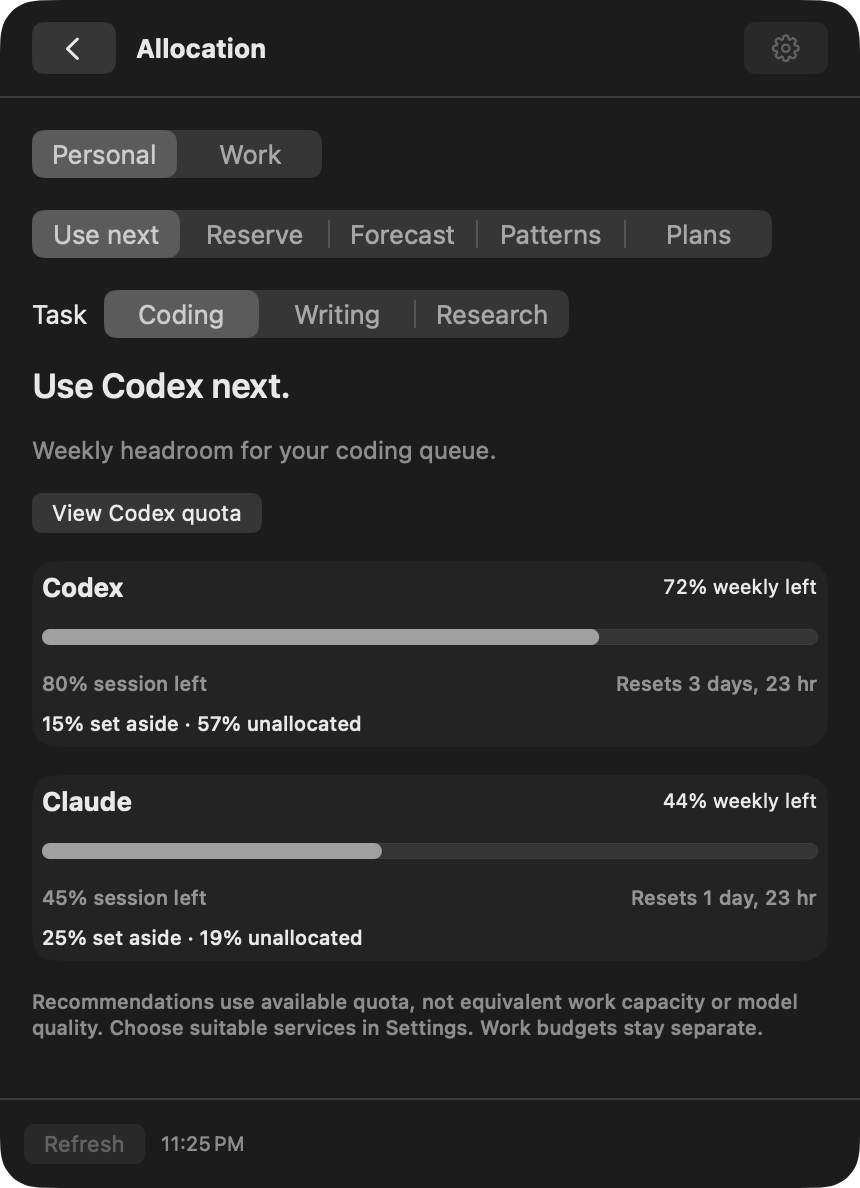
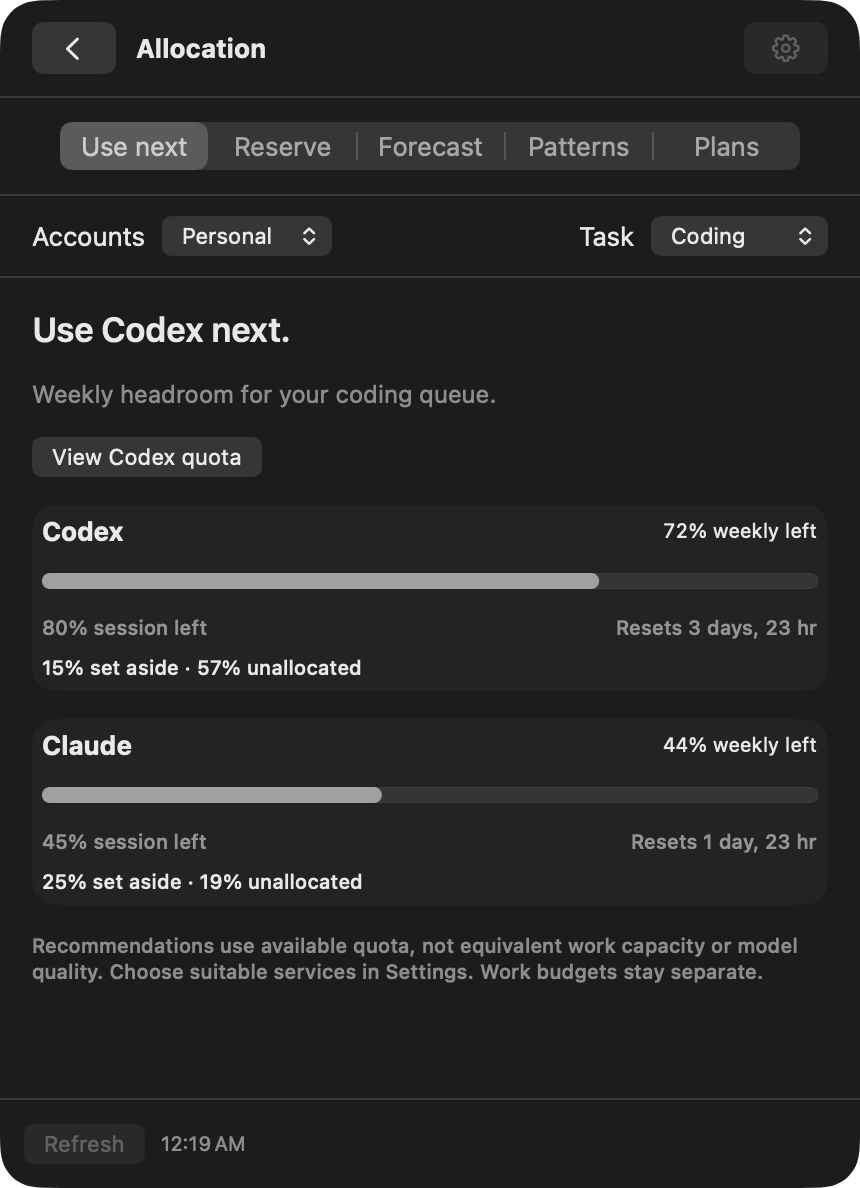
Update planner UI captures and notarized Build 14 download

diff --git a/index.html b/index.html
@@ -11,8 +11,8 @@
   <meta property="og:site_name" content="Bubble Tax">
   <meta property="og:locale" content="en_US">
   <meta property="og:url" content="https://bubble-tax.github.io/">
-  <meta property="og:image" content="https://bubble-tax.github.io/assets/bubble-tax-og.png?v=20261028">
-  <meta property="og:image:secure_url" content="https://bubble-tax.github.io/assets/bubble-tax-og.png?v=20261028">
+  <meta property="og:image" content="https://bubble-tax.github.io/assets/bubble-tax-og.png?v=20261029">
+  <meta property="og:image:secure_url" content="https://bubble-tax.github.io/assets/bubble-tax-og.png?v=20261029">
   <meta property="og:image:type" content="image/png">
   <meta property="og:image:width" content="1200">
   <meta property="og:image:height" content="630">
@@ -20,11 +20,11 @@
   <meta name="twitter:card" content="summary_large_image">
   <meta name="twitter:title" content="Bubble Tax — Know your limits. Plan your work.">
   <meta name="twitter:description" content="Compare five-hour and weekly quota. Then give your next task some room.">
-  <meta name="twitter:image" content="https://bubble-tax.github.io/assets/bubble-tax-og.png?v=20261028">
+  <meta name="twitter:image" content="https://bubble-tax.github.io/assets/bubble-tax-og.png?v=20261029">
   <meta name="twitter:image:alt" content="Bubble Tax: compare quota consumption and plan your AI work. A black-and-white comic mascot accompanies the headline.">
   <link rel="canonical" href="https://bubble-tax.github.io/">
   <title>Bubble Tax — Know your limits. Plan your work.</title>
-  <link rel="icon" href="assets/donationAngel.png?v=20261028" type="image/png">
+  <link rel="icon" href="assets/donationAngel.png?v=20261029" type="image/png">
   <script>
     (() => {
       let theme;
@@ -33,9 +33,9 @@
     })();
   </script>
   <link rel="stylesheet" href="styles.css?v=0cb568b79215">
-  <script src="config.js?v=349590f04ef7" defer></script>
+  <script src="config.js?v=7aec48963070" defer></script>
   <script src="analytics.js?v=3bac31c7a50d" defer></script>
-  <script src="app.js?v=bb21b4cd96c7" defer></script>
+  <script src="app.js?v=99b7ef75f5a2" defer></script>
 </head>
 <body>
   <a class="skip" href="#main">Skip to content</a>
@@ -75,7 +75,7 @@
           </button>
           <div class="mac-wallpaper" aria-hidden="true"></div>
           <div id="mac-popover" class="mac-popover">
-            <button class="image-button" data-image="assets/notch-claude.png?v=20261028" data-caption="Notch preview — native macOS app capture, sample data." aria-label="Enlarge the actual macOS overview screenshot"><img class="app-capture" data-light="assets/notch-claude.png?v=20261028" data-dark="assets/notch-claude-dark.png?v=20261028" src="assets/notch-claude.png?v=20261028" alt="Bubble Tax notch preview showing Claude weekly quota with sample data." width="860" height="1240" fetchpriority="high"></button>
+            <button class="image-button" data-image="assets/notch-claude.png?v=20261029" data-caption="Notch preview — native macOS app capture, sample data." aria-label="Enlarge the actual macOS overview screenshot"><img class="app-capture" data-light="assets/notch-claude.png?v=20261029" data-dark="assets/notch-claude-dark.png?v=20261029" src="assets/notch-claude.png?v=20261029" alt="Bubble Tax notch preview showing Claude weekly quota with sample data." width="860" height="1240" fetchpriority="high"></button>
           </div>
         </div>
         <figcaption><span id="preview-caption">Notch preview · native app capture · sample data.</span><span>Paid plans flip every 8 seconds. Click the quota to open or close.</span></figcaption>
@@ -104,14 +104,14 @@
           </div>
         </div>
         <figure class="tour-shot">
-          <button id="tour-image-button" class="image-button" data-image="assets/model-windows.png?v=20261028" data-caption="Window comparison — actual macOS app, sample data." aria-label="Enlarge the selected app screenshot"><img id="tour-image" class="app-capture" data-light="assets/model-windows.png?v=20261028" data-dark="assets/model-windows-dark.png?v=20261028" src="assets/model-windows.png?v=20261028" alt="Bubble Tax comparing five-hour Codex windows with weekly quota consumption, using sample data." width="860" height="1232"></button>
+          <button id="tour-image-button" class="image-button" data-image="assets/model-windows.png?v=20261029" data-caption="Window comparison — actual macOS app, sample data." aria-label="Enlarge the selected app screenshot"><img id="tour-image" class="app-capture" data-light="assets/model-windows.png?v=20261029" data-dark="assets/model-windows-dark.png?v=20261029" src="assets/model-windows.png?v=20261029" alt="Bubble Tax comparing five-hour Codex windows with weekly quota consumption, using sample data." width="860" height="1232"></button>
           <figcaption><span id="shot-label">Window comparison</span><span>Sample data · click for original</span></figcaption>
         </figure>
       </div>
       <details class="data-note"><summary>About the data</summary><p>Claude and Codex comparisons use paired five-hour and weekly quota readings. Model names come from Claude Code and Codex logs stored on your Mac. Those logs add model and cache context; they do not reveal the provider’s exact quota formula or prove account-wide token attribution. Unobserved periods stay unknown. Codex quota does not cover every ChatGPT feature.</p><p>Task suggestions use fresh headroom and your service preferences. Reservations are local planning targets, not provider-side locks or transfers. Forecasts need enough observed history and remain estimates. Personal and work budgets stay separate.</p><p>Usage history, reservations and completed-change records stay on your Mac. Prices are published US list prices, not your invoice. Savings are projected rate reductions from changes you record after completing them with the provider.</p><p>The website uses Google Analytics for visits and feature and installation-link clicks. App usage records are not sent to website analytics. Global Privacy Control disables website analytics.</p></details>
     </section>
     <section id="get-app" class="get-app wrap" aria-labelledby="download-title">
-      <div><h2 id="download-title">Bubble Tax for Mac</h2><p id="release-status">v0.1.0 Preview · Build 13</p><p class="fine-print">macOS 14+ · Apple silicon<br>Developer ID signed · Apple notarized.<br><a class="release-notes-link" href="https://github.com/bubble-tax/bubble-tax-bar/releases/tag/v0.1.0-build.13">Release notes &amp; installation</a></p></div>
+      <div><h2 id="download-title">Bubble Tax for Mac</h2><p id="release-status">v0.1.0 Preview · Build 14</p><p class="fine-print">macOS 14+ · Apple silicon<br>Developer ID signed · Apple notarized.<br><a class="release-notes-link" href="https://github.com/bubble-tax/bubble-tax-bar/releases/tag/v0.1.0-build.14">Release notes &amp; installation</a></p></div>
       <div class="install-options">
         <a id="download-link" class="button ink" aria-disabled="true" role="link" tabindex="-1">Download for macOS</a>
         <div class="brew-install">

diff --git a/config.js b/config.js
@@ -1,12 +1,12 @@
 // Add real destinations before publishing. Empty values keep buttons disabled.
 window.BUBBLE_TAX_BAR_CONFIG = Object.freeze({
-  downloadUrl: "https://github.com/bubble-tax/bubble-tax-bar/releases/download/v0.1.0-build.13/Bubble-Tax-0.1.0-macOS-arm64.zip", // GitHub Release asset URL (ZIP or DMG)
+  downloadUrl: "https://github.com/bubble-tax/bubble-tax-bar/releases/download/v0.1.0-build.14/Bubble-Tax-0.1.0-macOS-arm64.zip", // GitHub Release asset URL (ZIP or DMG)
   githubUrl: "https://github.com/bubble-tax/bubble-tax-bar",
   coffeeUrl: "https://buymeacoffee.com/workromancer",
-  assetVersion: "20261028",
+  assetVersion: "20261029",
   gaMeasurementIds: Object.freeze({
     "bubble-tax.github.io": "G-RDQQMG2P3P",
     "bubble-tax.workromancer.ai": "G-ZGTF5YBTDW",
   }),
-  releaseLabel: "v0.1.0 Preview · Build 13", // e.g. "v0.1.0 · Apple silicon · unsigned beta"
+  releaseLabel: "v0.1.0 Preview · Build 14", // e.g. "v0.1.0 · Apple silicon · unsigned beta"
 });

diff --git a/app.js b/app.js
@@ -15,7 +15,7 @@
   "use-next": {
     "title": "Give the next task a home.",
     "body": "See which suitable service has headroom after your planned work is accounted for. Choose coding, writing or research, then open the service’s quota view.",
-    "note": "Claude and Codex · suggestions based on availability and your preferences, not model quality or automatic task routing.",
+    "note": "Claude and Codex · availability and your preferences. You choose where to run the task.",
     "label": "Use next"
   },
   "reserve": {

diff --git a/README.md b/README.md
@@ -2,13 +2,13 @@
 
 Static English landing page, published from [bubble-tax/bubble-tax.github.io](https://github.com/bubble-tax/bubble-tax.github.io). The app repository keeps the canonical source in `site/`; it does not run a Pages deployment workflow.
 
-The product tour leads with paired five-hour/weekly quota comparisons, then task allocation, reservations, forecasts, usage patterns and plan review. The hero offers menu-bar and MacBook-notch previews. Theme changes swap native light/dark captures as well as page colors.
+The product tour leads with paired five-hour/weekly quota comparisons, then task allocation, reservations, forecasts, usage patterns and plan review. Allocation captures keep feature tabs above a separate row of account, task or log-source filters. Model labels refer to usage recorded in code logs. The hero offers menu-bar and MacBook-notch previews. Theme changes swap native light/dark captures as well as page colors.
 
 ## Screenshots
 
 Use the native app with isolated `--demo-data`, `--hide-demo-badge`, and `--appearance-light` / `--appearance-dark`. Fixtures must contain fictional accounts and logs. Capture the relevant view, crop the popover arrow and outer transparent padding, and keep public “sample data” captions. Never publish screenshots from real account state.
 
-Reservations are planning targets, forecasts are estimates, and local log model usage is not on-device model inference or verified quota attribution. Do not describe suggestions as automatic task execution or quotas as transferable.
+Reservations are planning targets, forecasts are estimates, and model usage comes from saved code logs and does not establish account-wide quota attribution. Do not describe suggestions as automatic task execution or quotas as transferable.
 
 ## Configuration
 
